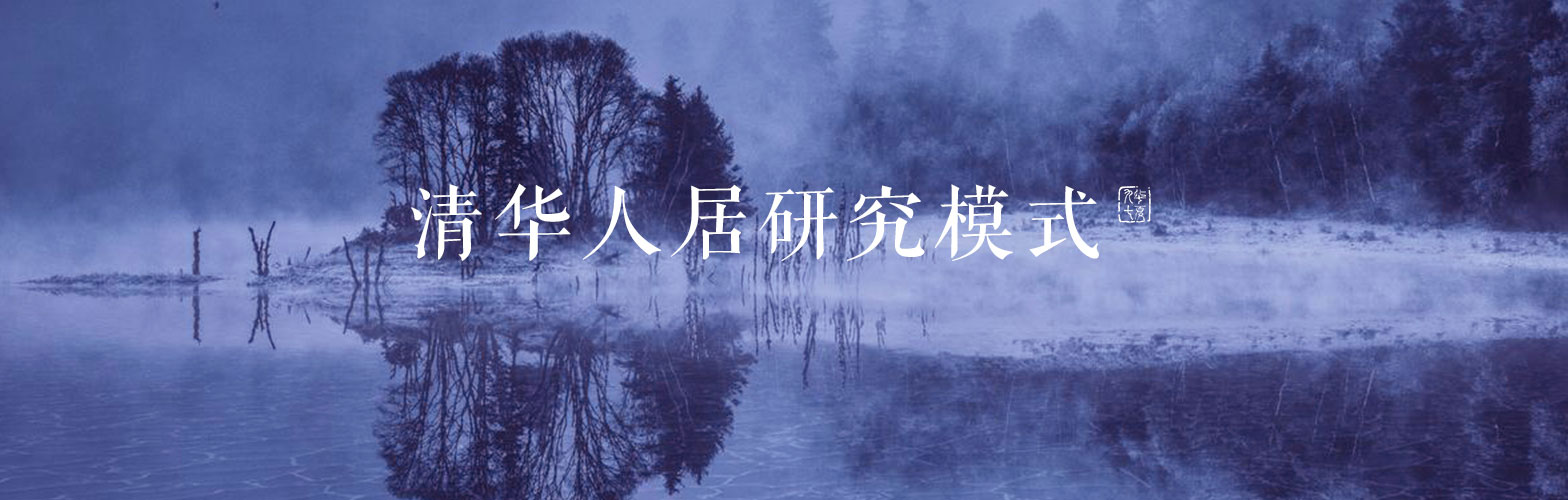
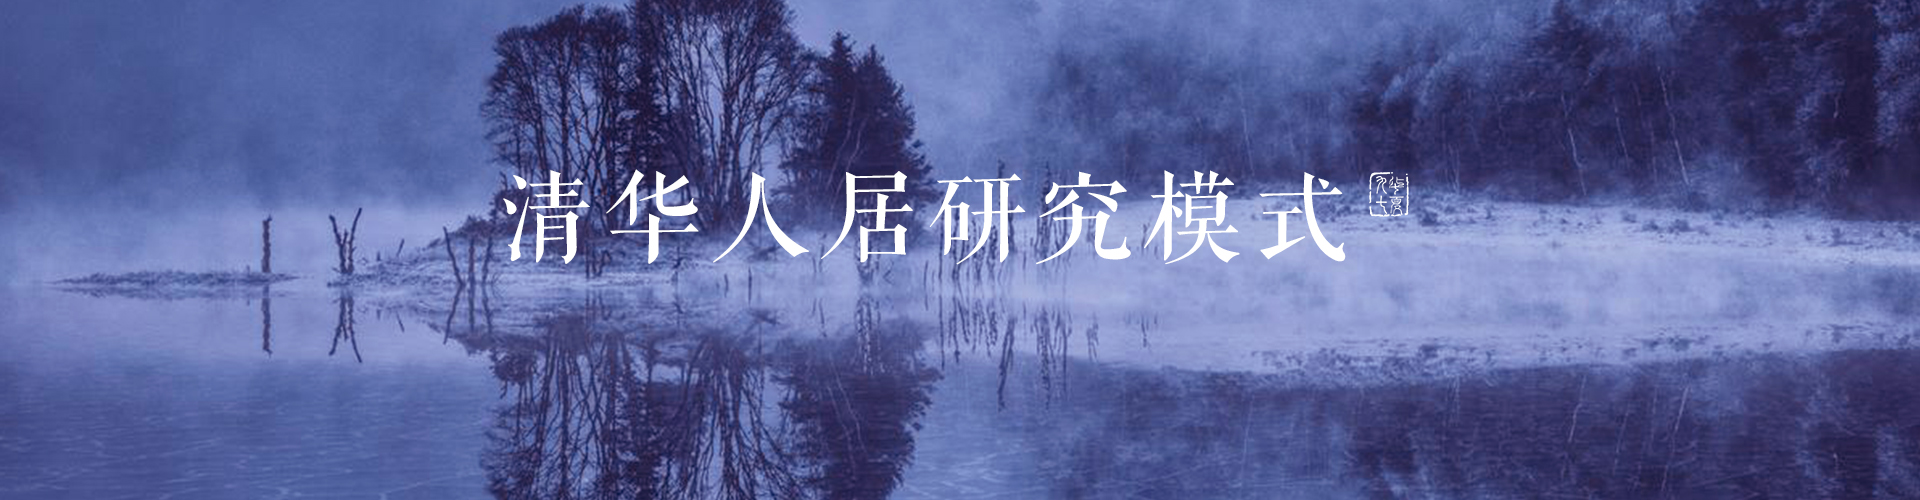
#

diff --git a/97HUA2/aboutus.html b/97HUA2/aboutus.html
@@ -201,10 +201,10 @@ $(function(){
     </div>
     <div class="produce">
       <h3>—软件打造—</h3>
-      <p class="hide-pc">硬件建设的同时，建立长效合作机制，挖掘保护并传承每个村子的文化，辅以相关运营，如社区营造、活动策划、推广宣传等。陪伴式乡建一直是我们的信念，我们坚信人才是乡建的核心，改变村庄的整体面貌也是 为了提升人们的生活环境，而软件建设则是为了更好地生活。</p>
+      <p class="hide-pc">硬件建设的同时，建立长效合作机制，挖掘保护并传承每个村子的文化，辅以相关运营，如社区营造、活动策划、推广宣传等。陪伴式乡建一直是我们的信念，我们坚信人才是乡建的核心，改变村庄的整体面貌也是为了提升人们的生活环境，而软件建设则是为了更好地生活。</p>
       <div class="hide-mb">
         <p>硬件建设的同时，建立长效合作机制，挖掘保护并传承每个村子的文化，辅以相关运营，如社区营造、活动策划、推广宣传等。</p>
-        <p>陪伴式乡建一直是我们的信念，我们坚信人才是乡建的核心，改变村庄的整体面貌也是 为了提升人们的生活环境，而软件建设则是为了更好地生活。</p>
+        <p>陪伴式乡建一直是我们的信念，我们坚信人才是乡建的核心，改变村庄的整体面貌也是为了提升人们的生活环境，而软件建设则是为了更好地生活。</p>
       </div>
       <div class="pro-pic">
         <ul>

diff --git a/97HUA2/brand.html b/97HUA2/brand.html
@@ -60,21 +60,24 @@ $(function(){
   <!-- 品牌项目 -->
   <div class="brand">
     <ul>
-      <li style="background-image: url(images/brand01.png)">
+      <li class="brand-link" style="background-image: url(images/brand01.png)">
+        <a href="brand-item.html">&nbsp;</a>
         <span>乡村文化研究</span>
       </li>
-      <li style="background-image: url(images/brand02.png)">
+      <li class="brand-link" style="background-image: url(images/brand02.png)">
+        <a href="brand-item02.html">&nbsp;</a>
         <span>乡建恨晚</span>
       </li>
     </ul>
   </div>
   <div class="brand b-reverse">
     <ul>
-      <li style="background-image: url(images/brand04.png)">
+      <li class="brand-link" style="background-image: url(images/brand04.png)">
+        <a href="brand-item04.html">&nbsp;</a>
         <span>品牌运营</span>
       </li>
       <li class="brand-link" style="background-image: url(images/brand03.png)">
-        <a href="brand-item.html">&nbsp;</a>
+        <a href="brand-item03.html">&nbsp;</a>
         <span>资源平台</span>
       </li>
     </ul>

diff --git a/97HUA2/index.html b/97HUA2/index.html
@@ -283,7 +283,7 @@ $(function(){
     <div class="blank hide-mb"></div>
     <!-- 资讯  -->
     <div class="news-wrap">
-      <div class="news-title">资讯动态</div>
+      <div class="news-title">资讯动态 <a href="brand.html" class="titlea" >more &gt;&gt;</a></div>
       <div class="news">
         <div class="news-info">
           <ul>
@@ -323,7 +323,7 @@ $(function(){
           <img src="images/news-pic-large.png" alt="">
         </div>
       </div>
-      <a href="brand-item.html" class="news-more hide-pc">查看更多 +</a>
+      <a href="brand.html" class="news-more hide-pc">查看更多 +</a>
     </div>
     <!-- //资讯  -->
   </div>
@@ -341,7 +341,9 @@ $(function(){
   <img src="images/company-pic.png" alt="">
 </div>
 <!-- //公司简介 -->
-<div class="culture-bg hide-mb"></div>
+<div class="tc hide-mb">
+  <img src="images/culture-mb.jpg" alt="">
+</div>
 <div class="tc hide-pc">
   <img src="images/culture.jpg" alt="">
 </div>

diff --git a/97HUA2/brand-item02.html b/97HUA2/brand-item02.html
@@ -61,10 +61,10 @@ $(function(){
 <!-- //sub-banner -->
 <div class="mainer">
   <div class="location">
-    您现在的位置：  首页  &gt;  乡建恨晚  &gt;  <em>乡村文化研究</em>
+    您现在的位置：  首页  &gt;  乡建恨晚  &gt;  <em>乡建恨晚</em>
   </div>
   <div class="blank"></div>
-  <div class="mtitle">THE STUDY OF RURALCUL TURE <em>—乡村文化研究—</em></div>
+  <div class="mtitle">RURAL CONSTRUCTION<em>—乡建恨晚—</em></div>
   <div class="mcontent">
     <h3>乡村 / 城镇 / 建设 / 营造</h3>
   </div>

diff --git a/97HUA2/brand-item03.html b/97HUA2/brand-item03.html
@@ -61,10 +61,10 @@ $(function(){
 <!-- //sub-banner -->
 <div class="mainer">
   <div class="location">
-    您现在的位置：  首页  &gt;  乡建恨晚  &gt;  <em>乡村文化研究</em>
+    您现在的位置：  首页  &gt;  乡建恨晚  &gt;  <em>资源平台</em>
   </div>
   <div class="blank"></div>
-  <div class="mtitle">THE STUDY OF RURALCUL TURE <em>—乡村文化研究—</em></div>
+  <div class="mtitle">RESOURCE PLATFORM <em>—资源平台—</em></div>
   <div class="mcontent">
     <h3>乡村 / 城镇 / 建设 / 营造</h3>
   </div>

diff --git a/97HUA2/brand-item04.html b/97HUA2/brand-item04.html
@@ -61,10 +61,10 @@ $(function(){
 <!-- //sub-banner -->
 <div class="mainer">
   <div class="location">
-    您现在的位置：  首页  &gt;  乡建恨晚  &gt;  <em>乡村文化研究</em>
+    您现在的位置：  首页  &gt;  乡建恨晚  &gt;  <em>品牌运营</em>
   </div>
   <div class="blank"></div>
-  <div class="mtitle">THE STUDY OF RURALCUL TURE <em>—乡村文化研究—</em></div>
+  <div class="mtitle">BRAND OPERATION<em>—品牌运营—</em></div>
   <div class="mcontent">
     <h3>乡村 / 城镇 / 建设 / 营造</h3>
   </div>

diff --git a/97HUA2/css/hua.css b/97HUA2/css/hua.css
@@ -191,6 +191,7 @@ em,h3{
 .sub-about{
   height: 300px;
   background-image: url(../images/sub-banner-about.jpg);
+  background-position: center -110px !important;
 }
 .sub-about img{
   margin-top: -1.8rem;
@@ -1160,5 +1161,10 @@ em,h3{
   background-color: transparent;
 }
 .sub3{
+  height: 300px;
+}
+.sub-item{
+  background-image: url(../images/sub-banner031.jpg);
+  background-position: center -181px !important;
   height: 300px;
 }

diff --git a/97HUA2/css/media.css b/97HUA2/css/media.css
@@ -317,6 +317,9 @@
   .news-title a {
     font-size: .24rem;
   }
+  .titlea{
+    font-size: 0 !important;
+  }
   .village-item ul li{
     flex: 0 0 -webkit-calc(50% - 5px);
     padding: .2rem .1rem;
